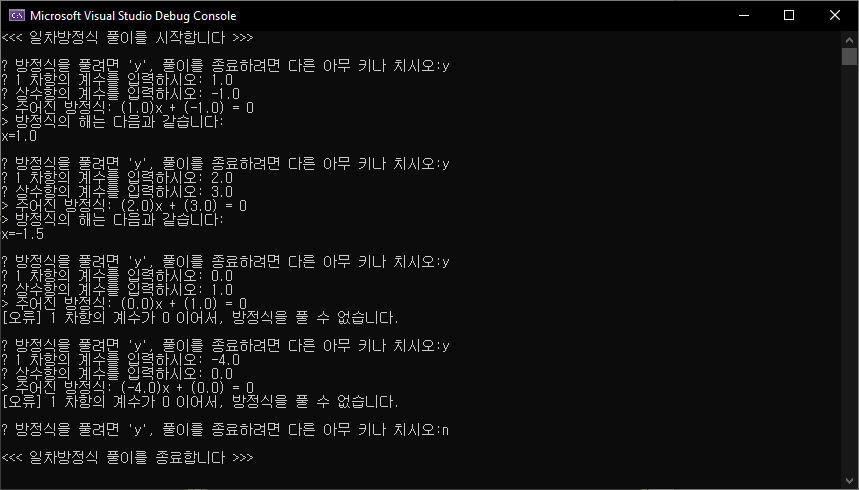
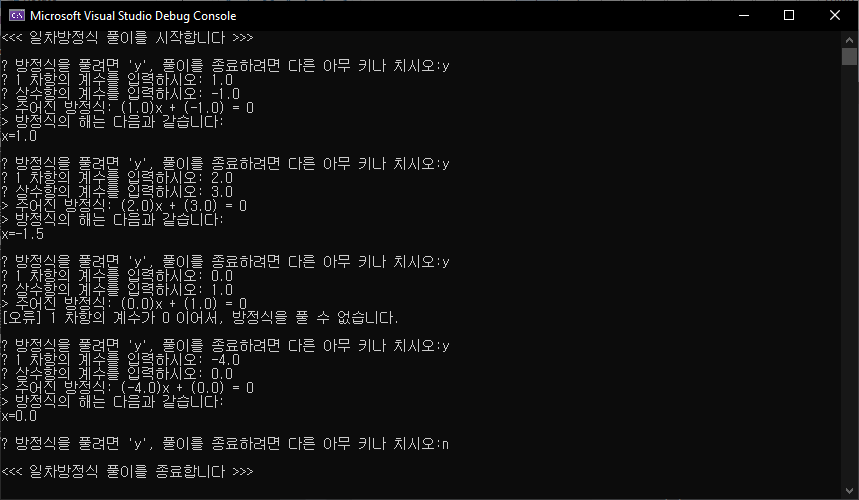
1주차 실습: c1 < 0 인 경우에 대해서 버그 수정

Changed region(s): [[0.0, 0.0, 0.5146, 0.9796], [0.9988, 0.1531, 1.0, 1.0], [0.3935, 0.7959, 0.4237, 0.8265]]

diff --git a/week01/Macros.h b/week01/Macros.h
@@ -2,6 +2,8 @@
 #define __MACROS_H
 
 #define EPSILON 1.0E-6
-#define FloatIsZero(f0) (f0 < EPSILON)
+
+#define FloatAbs(f0) (float)((long)f0 & 0x7fffffff)
+#define FloatIsZero(f0) (FloatAbs(f0) < EPSILON)
 
 #endif
